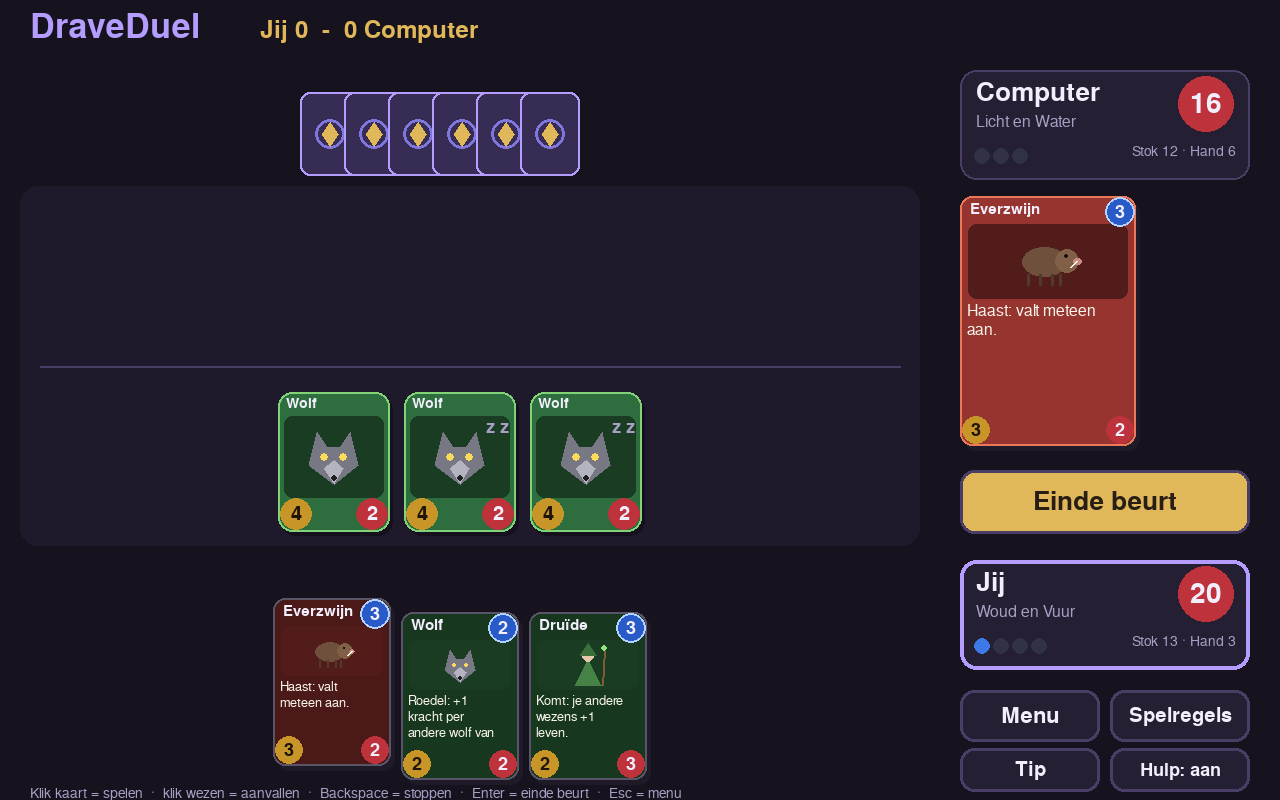
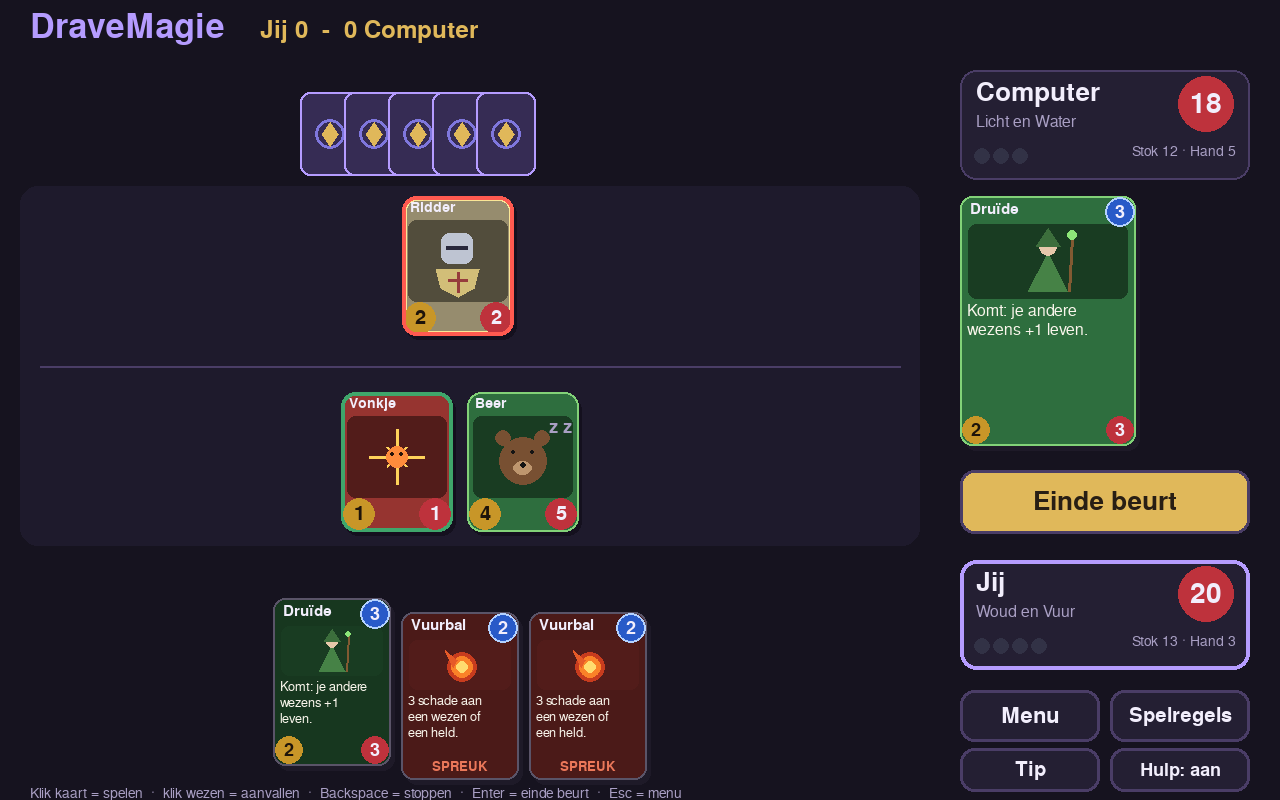
DraveSpellenkast 0.18.1 - kaartspel heet nu DraveMagie (DraveDuel bestond al)
Claude-Session: https://claude.ai/code/session_015Fxy3TZa9hWrkqX9z3cigj

diff --git a/main.py b/main.py
@@ -42,7 +42,7 @@ import online
 import json
 import secrets
 
-VERSIE = "0.18.0"
+VERSIE = "0.18.1"
 W, H = 1280, 800
 
 
@@ -96,7 +96,7 @@ TX = {
     "lingo_c3": ("Om de beurt met de computer - moeilijk", "Take turns with the computer - hard"),
     "rev": ("Reversi", "Reversi"), "rev_sub": ("Sluit zijn schijven in, dan draaien ze om", "Trap his discs and they flip over"),
     "online_rev": ("Reversi online", "Reversi online"),
-    "duel": ("DraveDuel", "DraveDuel"), "duel_sub": ("Kaartspel: wezens, spreuken en draken", "Card game: creatures, spells and dragons"),
+    "duel": ("DraveMagie", "DraveMagic"), "duel_sub": ("Kaartspel: wezens, spreuken en draken", "Card game: creatures, spells and dragons"),
     "domino": ("Domino", "Dominoes"), "domino_sub": ("Leg aan met hetzelfde aantal ogen", "Match the same number of pips"),
     "online_domino": ("Domino online", "Dominoes online"),
     "kies_muis": ("Wijs een spel aan om te lezen wat het is, klik om te spelen.", "Point at a game to read what it is, click to play."),
@@ -221,7 +221,7 @@ TX = {
                      "Alle ingesloten schijven draaien om naar jouw kleur. Kun je niet zetten, dan pas je vanzelf.\n"
                      "Is het bord vol (of kan niemand meer), dan wint wie de meeste schijven heeft. Hoeken zijn goud waard!\n"
                      "Hulp aan: stipjes = hier mag je zetten, en je ziet hoeveel schijven er omdraaien.\n"
-                     "DRAVEDUEL: kies een stok: Woud en Vuur (wezens, aanvallen) of Licht en Water (spreuken, verdediging). Je hebt 20 levens.\n"
+                     "DRAVEMAGIE: kies een stok: Woud en Vuur (wezens, aanvallen) of Licht en Water (spreuken, verdediging). Je hebt 20 levens.\n"
                      "Elke beurt krijg je 1 mana meer (tot 8) en trek je 1 kaart. Het blauwe getal op een kaart is wat hij kost.\n"
                      "Klik een kaart om hem te spelen. Een wezen moet 1 beurt wennen; met Haast valt hij meteen aan.\n"
                      "Aanvallen: klik je wezen, dan een vijandelijk wezen of de held. Ze slaan elkaar met hun kracht (geel) van hun leven (rood) af.\n"
@@ -287,7 +287,7 @@ TX = {
                      "All trapped discs flip to your colour. If you cannot move, you pass automatically.\n"
                      "When the board is full (or nobody can move), whoever has the most discs wins. Corners are gold!\n"
                      "Help on: dots = you may play here, and you see how many discs flip.\n"
-                     "DRAVEDUEL: choose a deck: Forest and Fire (creatures, attacks) or Light and Water (spells, defence). You have 20 life.\n"
+                     "DRAVEMAGIC: choose a deck: Forest and Fire (creatures, attacks) or Light and Water (spells, defence). You have 20 life.\n"
                      "Each turn you get 1 more mana (up to 8) and draw 1 card. The blue number on a card is its cost.\n"
                      "Click a card to play it. A creature needs 1 turn to settle; with Haste it attacks at once.\n"
                      "Attack: click your creature, then an enemy creature or the hero. They hit each other's health (red) with their power (yellow).\n"
@@ -353,7 +353,7 @@ NIEUW.update({
 })
 SPEL_SCHERMEN = ("bg", "topo", "vier", "zee", "wie", "dam", "schaak", "galg", "memo") + tuple(NIEUW)
 REGEL_KOP = {"bg": ("BACKGAMMON", "BACKGAMMON"), "topo": ("TOPOGRAFIE", "TOPOGRAPHY"), "vier": ("VIER OP EEN RIJ", "CONNECT FOUR"),
-             "zee": ("ZEESLAG", "BATTLESHIP"), "wie": ("WIE BEN IK?", "GUESS WHO?"), "dam": ("DAMMEN", "DRAUGHTS"), "schaak": ("SCHAKEN", "CHESS"), "galg": ("GALGJE", "HANGMAN"), "memo": ("MEMORY", "MEMORY"), "lingo": ("LINGO", "LINGO"), "sudoku": ("SUDOKU", "SUDOKU"), "puzzel": ("PUZZEL", "PUZZLE"), "pest": ("PESTEN", "CRAZY EIGHTS"), "gans": ("GANZENBORD", "GAME OF THE GOOSE"), "domino": ("DOMINO", "DOMINOES"), "rev": ("REVERSI", "REVERSI"), "duel": ("DRAVEDUEL", "DRAVEDUEL")}
+             "zee": ("ZEESLAG", "BATTLESHIP"), "wie": ("WIE BEN IK?", "GUESS WHO?"), "dam": ("DAMMEN", "DRAUGHTS"), "schaak": ("SCHAKEN", "CHESS"), "galg": ("GALGJE", "HANGMAN"), "memo": ("MEMORY", "MEMORY"), "lingo": ("LINGO", "LINGO"), "sudoku": ("SUDOKU", "SUDOKU"), "puzzel": ("PUZZEL", "PUZZLE"), "pest": ("PESTEN", "CRAZY EIGHTS"), "gans": ("GANZENBORD", "GAME OF THE GOOSE"), "domino": ("DOMINO", "DOMINOES"), "rev": ("REVERSI", "REVERSI"), "duel": ("DRAVEMAGIE", "DRAVEMAGIC")}
 
 
 def regels_voor(scherm):

diff --git a/duel.py b/duel.py
@@ -1,5 +1,5 @@
 # -*- coding: utf-8 -*-
-"""DraveSpellenkast - DraveDuel: een kaartspel met wezens en spreuken (27-11-2026, idee van pa).
+"""DraveSpellenkast - DraveMagie: een kaartspel met wezens en spreuken (27-11-2026, idee van pa).
 Twee stokken: Woud en Vuur (rood-groen: wezens en aanvallen) en Licht en Water (blauw-wit: spreuken en verdediging).
 Elke beurt krijg je 1 mana meer. Speel wezens en spreuken, val aan, en breng de ander van 20 naar 0 levens.
 Combinaties maken het slim: wolven worden sterker in een roedel, uilen laten je kaarten trekken, enzovoort.
@@ -20,7 +20,7 @@ KW, KH = 118, 168          # kaart in de hand
 VW, VH = 112, 140          # wezen op het veld
 
 TX = {
-    "duel": ("DraveDuel", "DraveDuel"),
+    "duel": ("DraveMagie", "DraveMagic"),
     "kies_stok": ("Kies je stok", "Choose your deck"),
     "stok_rg": ("Woud en Vuur", "Forest and Fire"),
     "stok_rg_sub": ("Rood-groen: veel wezens, hard aanvallen, wolven in een roedel.",

diff --git a/README.md b/README.md
@@ -19,7 +19,7 @@
 | **Schaken** – met **10 korte lessen** voor wie het nog nooit deed | **Galgje** | **Memory** – zelf getekende plaatjes |
 | **Lingo** – net als op tv | **Reversi** | **Domino** |
 | **Ganzenbord** – met de put, het doolhof en de dood | **Pesten** – alle pestkaarten | **Puzzel** – met de kunst van Roger |
-| **Sudoku** – elke puzzel nieuw, altijd één oplossing | **DraveDuel** – kaartspel met wezens, spreuken en draken | |
+| **Sudoku** – elke puzzel nieuw, altijd één oplossing | **DraveMagie** – kaartspel met wezens, spreuken en draken | |
 
 Bij bijna elk spel: **Hulp aan/uit** (laat zien wat mag en waar gevaar zit) en een **Tip**-knop. De spelregels van het spel dat je speelt staan achter de knop **Spelregels**.
 
@@ -28,14 +28,14 @@ Bij bijna elk spel: **Hulp aan/uit** (laat zien wat mag en waar gevaar zit) en e
 | ![Dammen](docs/dammen.png) | ![Schaakles](docs/schaakles.png) | ![Lingo](docs/lingo.png) |
 | **Pesten** | **Ganzenbord** | **Puzzel** |
 | ![Pesten](docs/pesten.png) | ![Ganzenbord](docs/ganzenbord.png) | ![Puzzel](docs/puzzel.png) |
-| **DraveDuel** | | |
-| ![DraveDuel](docs/duel.png) | | |
+| **DraveMagie** | | |
+| ![DraveMagie](docs/duel.png) | | |
 
 ## 🌐 Online spelen
 
 Kies bij een spel **Online: op twee pc's**. De een klikt **Nieuwe kamer maken** en krijgt een code van 6 tekens; de ander typt die code en klikt **Meedoen**. Verbinding weg? Hij verbindt vanzelf opnieuw en het bord klopt weer. De server bewaart alleen het spel zelf, niets over jou.
 
-*Versie 0.18.0*
+*Versie 0.18.1*
 
 ## ⬇ Downloaden (Windows, geen Python nodig)
 
